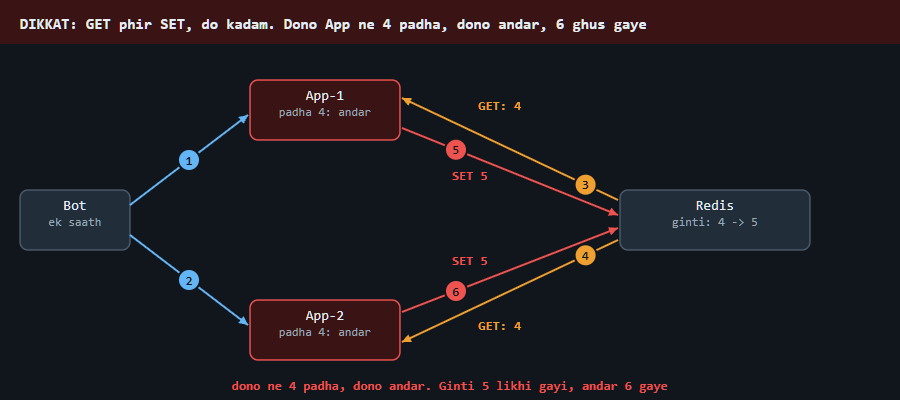
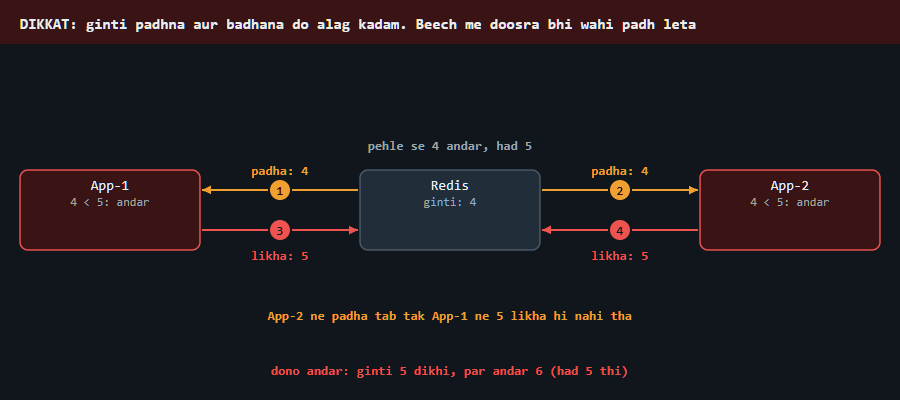
hld rate limiter c2: App-1 | Redis | App-2, koi teer nahi katta, seedhi bhasha

diff --git a/04_HLD/SYSTEM_DESIGNS/02_rate_limiter/img/c2_anim.html b/04_HLD/SYSTEM_DESIGNS/02_rate_limiter/img/c2_anim.html
@@ -137,37 +137,35 @@ function draw(t) {
 // Agar: INCR hua, EXPIRE se pehle crash -> key bina umar, user hamesha block. Hal: dono ek Lua me.
 const DUR = 9;
 const PH = [
-  [0, RED, 'DIKKAT', 'DIKKAT: GET phir SET, do kadam. Dono App ne 4 padha, dono andar, 6 ghus gaye'],
+  [0, RED, 'DIKKAT', 'DIKKAT: ginti padhna aur badhana do alag kadam. Beech me doosra bhi wahi padh leta'],
   [3, GRN, 'ILAAJ', 'ILAAJ: INCR = padhna + badhana ek hi kadam. Redis ek ke baad ek chalata'],
   [6, YEL, 'AGAR', 'AGAR INCR hua, EXPIRE se pehle crash? -> key bina umar, user hamesha block'],
 ];
 function setup() {}
-function bots() {
-  B(20, 150, 110, 60, 'Bot', 'ek saath');
-  A(130, 165, 248, 75, C.msg, { n: 1 }); A(130, 195, 248, 285, C.msg, { n: 2 });
-}
 function frame(ph) {
   if (ph === 0) {
-    bots();
-    B(250, 40, 150, 60, 'App-1', 'padha 4: andar', { st: 'bad' });
-    B(250, 260, 150, 60, 'App-2', 'padha 4: andar', { st: 'bad' });
-    B(620, 150, 190, 60, 'Redis', 'ginti: 4 -> 5', {});
-    A(618, 160, 402, 58, C.acc, { n: 3, at: 0.15 }); L(500, 70, 'GET: 4', C.acc);
-    A(618, 200, 402, 302, C.acc, { n: 4, at: 0.15 }); L(500, 290, 'GET: 4', C.acc);
-    A(402, 88, 618, 175, C.bad, { n: 5, at: 0.25 }); L(470, 140, 'SET 5', C.bad);
-    A(402, 272, 618, 188, C.bad, { n: 6, at: 0.25 }); L(470, 225, 'SET 5', C.bad);
-    L(450, 350, 'dono ne 4 padha, dono andar. Ginti 5 likhi gayi, andar 6 gaye', C.bad);
+    // App-1 baayein, Redis beech, App-2 daayein: koi teer nahi katta
+    B(20, 130, 180, 80, 'App-1', '4 < 5: andar', { st: 'bad' });
+    B(360, 130, 180, 80, 'Redis', 'ginti: 4', {});
+    B(700, 130, 180, 80, 'App-2', '4 < 5: andar', { st: 'bad' });
+    L(450, 110, 'pehle se 4 andar, had 5', C.muted);
+    A(358, 150, 202, 150, C.acc, { n: 1 }); L(280, 135, 'padha: 4', C.acc);
+    A(542, 150, 698, 150, C.acc, { n: 2 }); L(620, 135, 'padha: 4', C.acc);
+    A(202, 190, 358, 190, C.bad, { n: 3 }); L(280, 220, 'likha: 5', C.bad);
+    A(698, 190, 542, 190, C.bad, { n: 4 }); L(620, 220, 'likha: 5', C.bad);
+    L(450, 280, 'App-2 ne padha tab tak App-1 ne 5 likha hi nahi tha', C.acc);
+    L(450, 335, 'dono andar: ginti 5 dikhi, par andar 6 (had 5 thi)', C.bad);
   } else if (ph === 1) {
-    bots();
-    B(250, 40, 150, 60, 'App-1', '5: andar', { st: 'good' });
-    B(250, 260, 150, 60, 'App-2', '6: 429', { st: 'bad' });
-    B(620, 150, 190, 60, 'Redis', 'ginti: 6', { st: 'acc' });
-    L(715, 135, 'ek ke baad ek', C.acc);
-    A(402, 60, 618, 160, C.acc, { n: 3, at: 0.25 }); L(520, 85, 'INCR', C.acc);
-    A(618, 175, 402, 88, C.good, { n: 4, at: 0.25 }); L(430, 155, 'ginti 5: andar', C.good);
-    A(402, 272, 618, 188, C.acc, { n: 5, at: 0.25 }); L(520, 205, 'INCR', C.acc);
-    A(618, 200, 402, 302, C.bad, { n: 6, at: 0.25 }); L(580, 300, 'ginti 6 > 5: mana', C.bad);
-    L(450, 350, 'padhna + badhana ek kadam, beech me koi ghus nahi sakta', C.good);
+    B(20, 130, 180, 80, 'App-1', '5: andar', { st: 'good' });
+    B(360, 130, 180, 80, 'Redis', 'ginti: 4 -> 5 -> 6', { st: 'acc' });
+    B(700, 130, 180, 80, 'App-2', '6: 429', { st: 'bad' });
+    L(450, 110, 'ek ke baad ek', C.acc);
+    A(202, 150, 358, 150, C.acc, { n: 1 }); L(280, 135, 'INCR', C.acc);
+    A(358, 190, 202, 190, C.good, { n: 2 }); L(280, 220, 'ginti 5: andar', C.good);
+    A(698, 150, 542, 150, C.acc, { n: 3 }); L(620, 135, 'INCR', C.acc);
+    A(542, 190, 698, 190, C.bad, { n: 4 }); L(620, 220, 'ginti 6 > 5: 429', C.bad);
+    L(450, 300, 'INCR = padhna + badhana ek hi kadam', C.good);
+    L(450, 330, 'beech me koi doosra ghus hi nahi sakta', C.good);
   } else {
     B(300, 20, 300, 120, 'Redis', '', {});
     cells(325, 70, [['INCR', C.good], ['EXPIRE', C.bad]], { w: 120, h: 34 });

diff --git a/04_HLD/SYSTEM_DESIGNS/02_rate_limiter/img/c2_anim.js b/04_HLD/SYSTEM_DESIGNS/02_rate_limiter/img/c2_anim.js
@@ -2,37 +2,35 @@
 // Agar: INCR hua, EXPIRE se pehle crash -> key bina umar, user hamesha block. Hal: dono ek Lua me.
 const DUR = 9;
 const PH = [
-  [0, RED, 'DIKKAT', 'DIKKAT: GET phir SET, do kadam. Dono App ne 4 padha, dono andar, 6 ghus gaye'],
+  [0, RED, 'DIKKAT', 'DIKKAT: ginti padhna aur badhana do alag kadam. Beech me doosra bhi wahi padh leta'],
   [3, GRN, 'ILAAJ', 'ILAAJ: INCR = padhna + badhana ek hi kadam. Redis ek ke baad ek chalata'],
   [6, YEL, 'AGAR', 'AGAR INCR hua, EXPIRE se pehle crash? -> key bina umar, user hamesha block'],
 ];
 function setup() {}
-function bots() {
-  B(20, 150, 110, 60, 'Bot', 'ek saath');
-  A(130, 165, 248, 75, C.msg, { n: 1 }); A(130, 195, 248, 285, C.msg, { n: 2 });
-}
 function frame(ph) {
   if (ph === 0) {
-    bots();
-    B(250, 40, 150, 60, 'App-1', 'padha 4: andar', { st: 'bad' });
-    B(250, 260, 150, 60, 'App-2', 'padha 4: andar', { st: 'bad' });
-    B(620, 150, 190, 60, 'Redis', 'ginti: 4 -> 5', {});
-    A(618, 160, 402, 58, C.acc, { n: 3, at: 0.15 }); L(500, 70, 'GET: 4', C.acc);
-    A(618, 200, 402, 302, C.acc, { n: 4, at: 0.15 }); L(500, 290, 'GET: 4', C.acc);
-    A(402, 88, 618, 175, C.bad, { n: 5, at: 0.25 }); L(470, 140, 'SET 5', C.bad);
-    A(402, 272, 618, 188, C.bad, { n: 6, at: 0.25 }); L(470, 225, 'SET 5', C.bad);
-    L(450, 350, 'dono ne 4 padha, dono andar. Ginti 5 likhi gayi, andar 6 gaye', C.bad);
+    // App-1 baayein, Redis beech, App-2 daayein: koi teer nahi katta
+    B(20, 130, 180, 80, 'App-1', '4 < 5: andar', { st: 'bad' });
+    B(360, 130, 180, 80, 'Redis', 'ginti: 4', {});
+    B(700, 130, 180, 80, 'App-2', '4 < 5: andar', { st: 'bad' });
+    L(450, 110, 'pehle se 4 andar, had 5', C.muted);
+    A(358, 150, 202, 150, C.acc, { n: 1 }); L(280, 135, 'padha: 4', C.acc);
+    A(542, 150, 698, 150, C.acc, { n: 2 }); L(620, 135, 'padha: 4', C.acc);
+    A(202, 190, 358, 190, C.bad, { n: 3 }); L(280, 220, 'likha: 5', C.bad);
+    A(698, 190, 542, 190, C.bad, { n: 4 }); L(620, 220, 'likha: 5', C.bad);
+    L(450, 280, 'App-2 ne padha tab tak App-1 ne 5 likha hi nahi tha', C.acc);
+    L(450, 335, 'dono andar: ginti 5 dikhi, par andar 6 (had 5 thi)', C.bad);
   } else if (ph === 1) {
-    bots();
-    B(250, 40, 150, 60, 'App-1', '5: andar', { st: 'good' });
-    B(250, 260, 150, 60, 'App-2', '6: 429', { st: 'bad' });
-    B(620, 150, 190, 60, 'Redis', 'ginti: 6', { st: 'acc' });
-    L(715, 135, 'ek ke baad ek', C.acc);
-    A(402, 60, 618, 160, C.acc, { n: 3, at: 0.25 }); L(520, 85, 'INCR', C.acc);
-    A(618, 175, 402, 88, C.good, { n: 4, at: 0.25 }); L(430, 155, 'ginti 5: andar', C.good);
-    A(402, 272, 618, 188, C.acc, { n: 5, at: 0.25 }); L(520, 205, 'INCR', C.acc);
-    A(618, 200, 402, 302, C.bad, { n: 6, at: 0.25 }); L(580, 300, 'ginti 6 > 5: mana', C.bad);
-    L(450, 350, 'padhna + badhana ek kadam, beech me koi ghus nahi sakta', C.good);
+    B(20, 130, 180, 80, 'App-1', '5: andar', { st: 'good' });
+    B(360, 130, 180, 80, 'Redis', 'ginti: 4 -> 5 -> 6', { st: 'acc' });
+    B(700, 130, 180, 80, 'App-2', '6: 429', { st: 'bad' });
+    L(450, 110, 'ek ke baad ek', C.acc);
+    A(202, 150, 358, 150, C.acc, { n: 1 }); L(280, 135, 'INCR', C.acc);
+    A(358, 190, 202, 190, C.good, { n: 2 }); L(280, 220, 'ginti 5: andar', C.good);
+    A(698, 150, 542, 150, C.acc, { n: 3 }); L(620, 135, 'INCR', C.acc);
+    A(542, 190, 698, 190, C.bad, { n: 4 }); L(620, 220, 'ginti 6 > 5: 429', C.bad);
+    L(450, 300, 'INCR = padhna + badhana ek hi kadam', C.good);
+    L(450, 330, 'beech me koi doosra ghus hi nahi sakta', C.good);
   } else {
     B(300, 20, 300, 120, 'Redis', '', {});
     cells(325, 70, [['INCR', C.good], ['EXPIRE', C.bad]], { w: 120, h: 34 });

diff --git a/04_HLD/SYSTEM_DESIGNS/02_rate_limiter/02_rate_limiter.md b/04_HLD/SYSTEM_DESIGNS/02_rate_limiter/02_rate_limiter.md
@@ -86,11 +86,11 @@ Cue: ATOMIC: INCR / LUA script
 
 <details><summary>kahani dekho (3 scene)</summary>
 
-<img src="img/c2_1.png?v=2" width="900">
+<img src="img/c2_1.png?v=3" width="900">
 
-<img src="img/c2_2.png?v=2" width="900">
+<img src="img/c2_2.png?v=3" width="900">
 
-<img src="img/c2_3.png?v=2" width="900">
+<img src="img/c2_3.png?v=3" width="900">
 
 </details>
 
